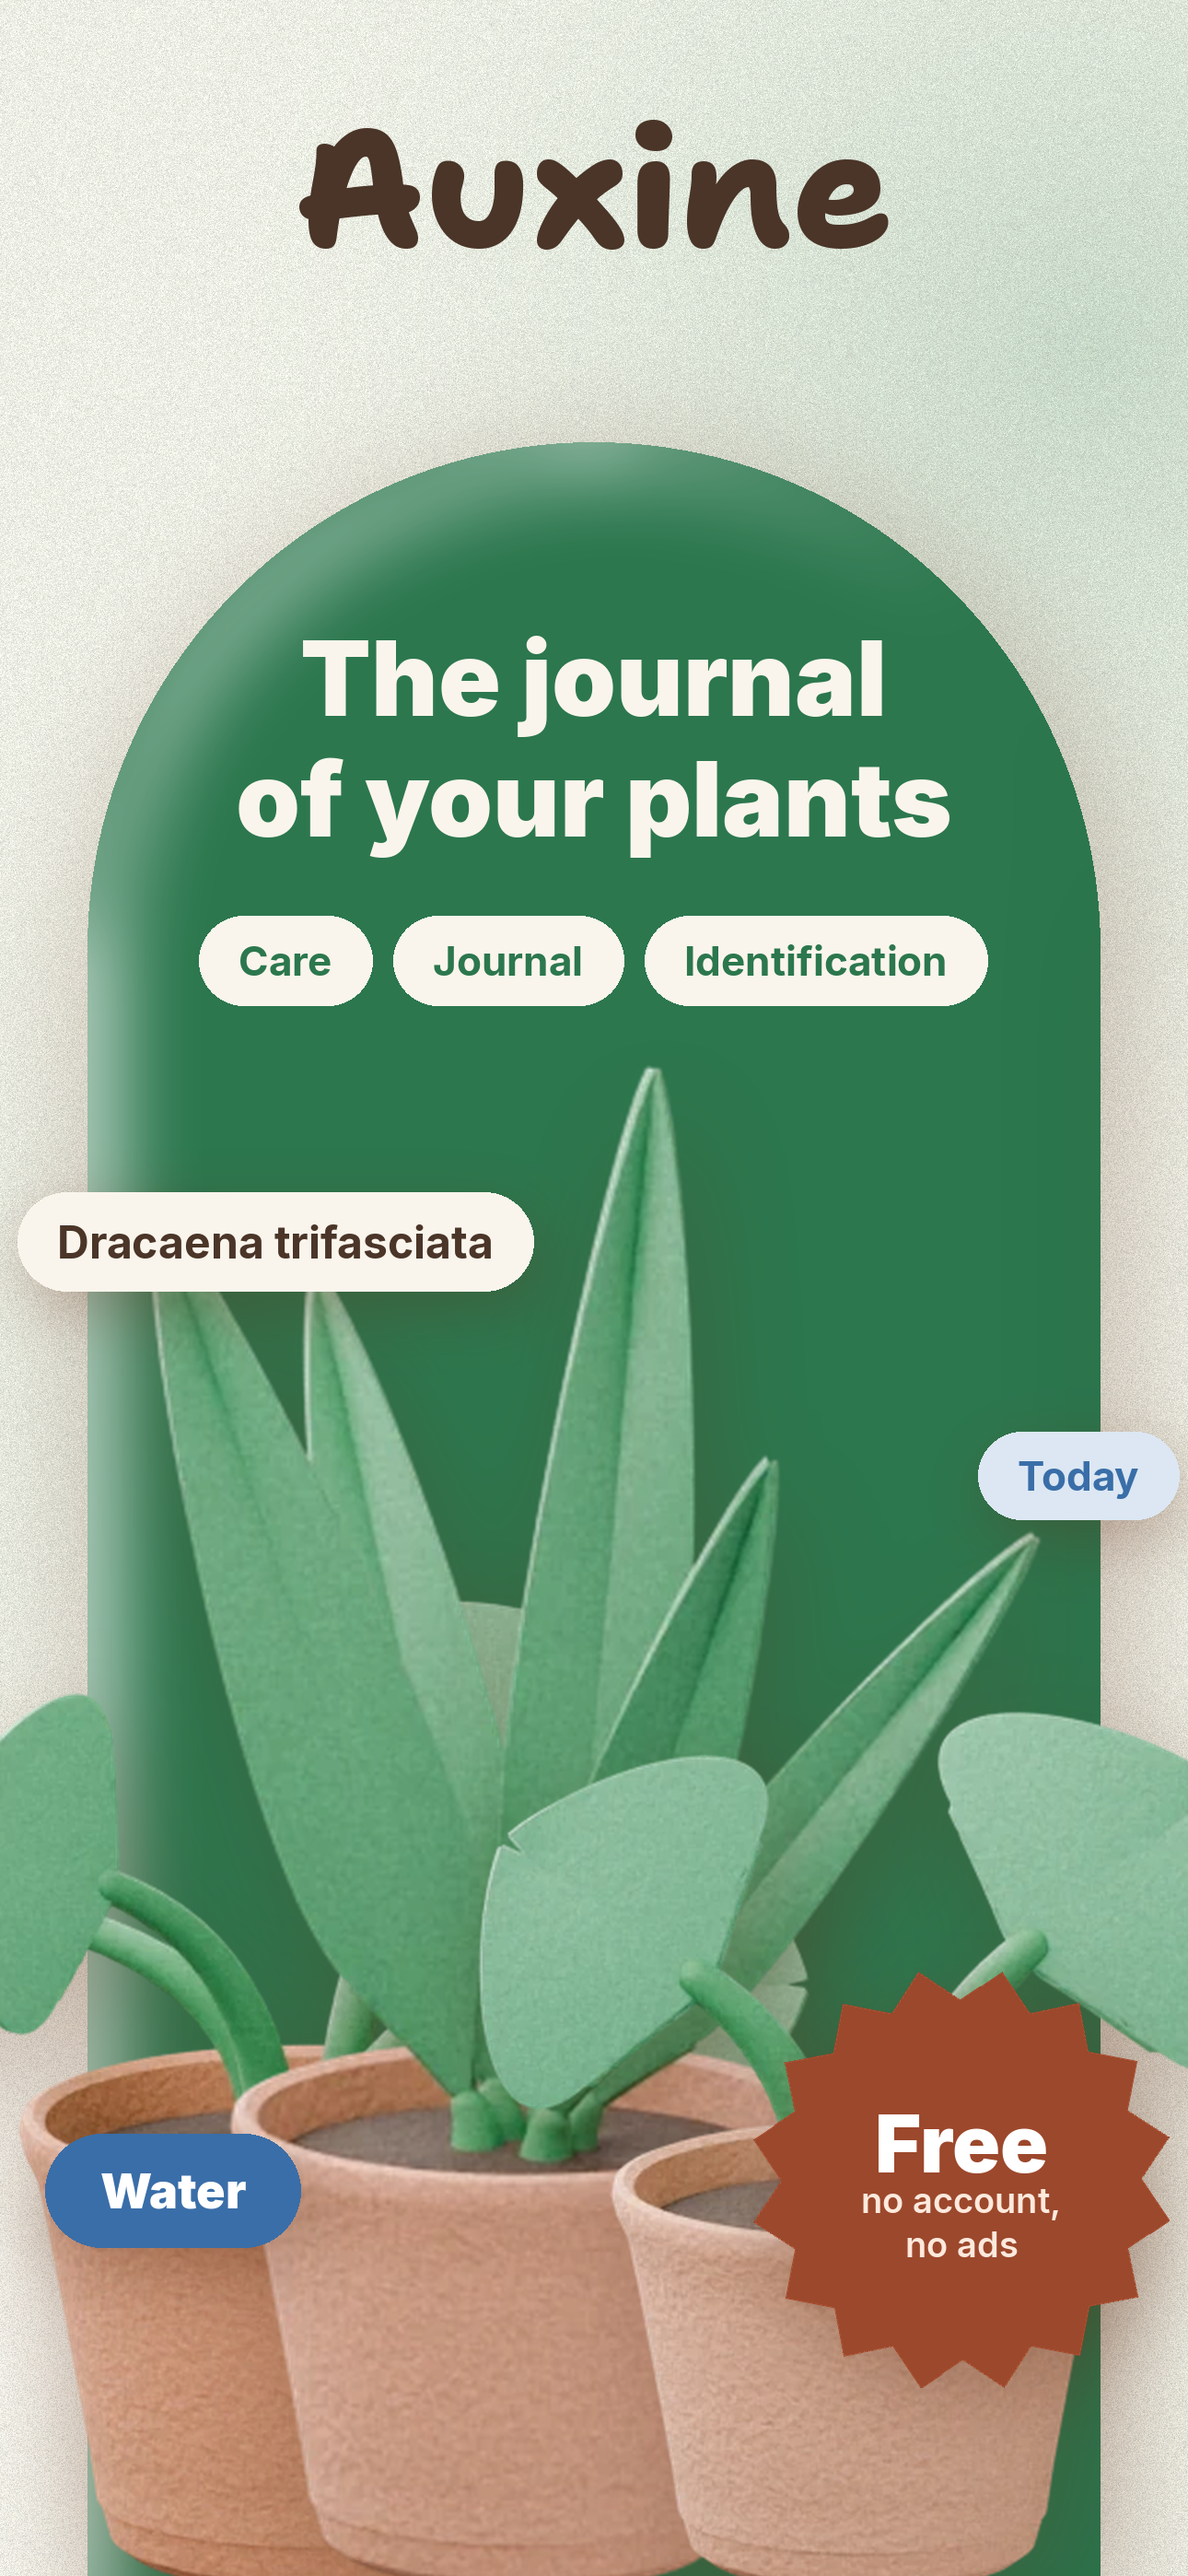
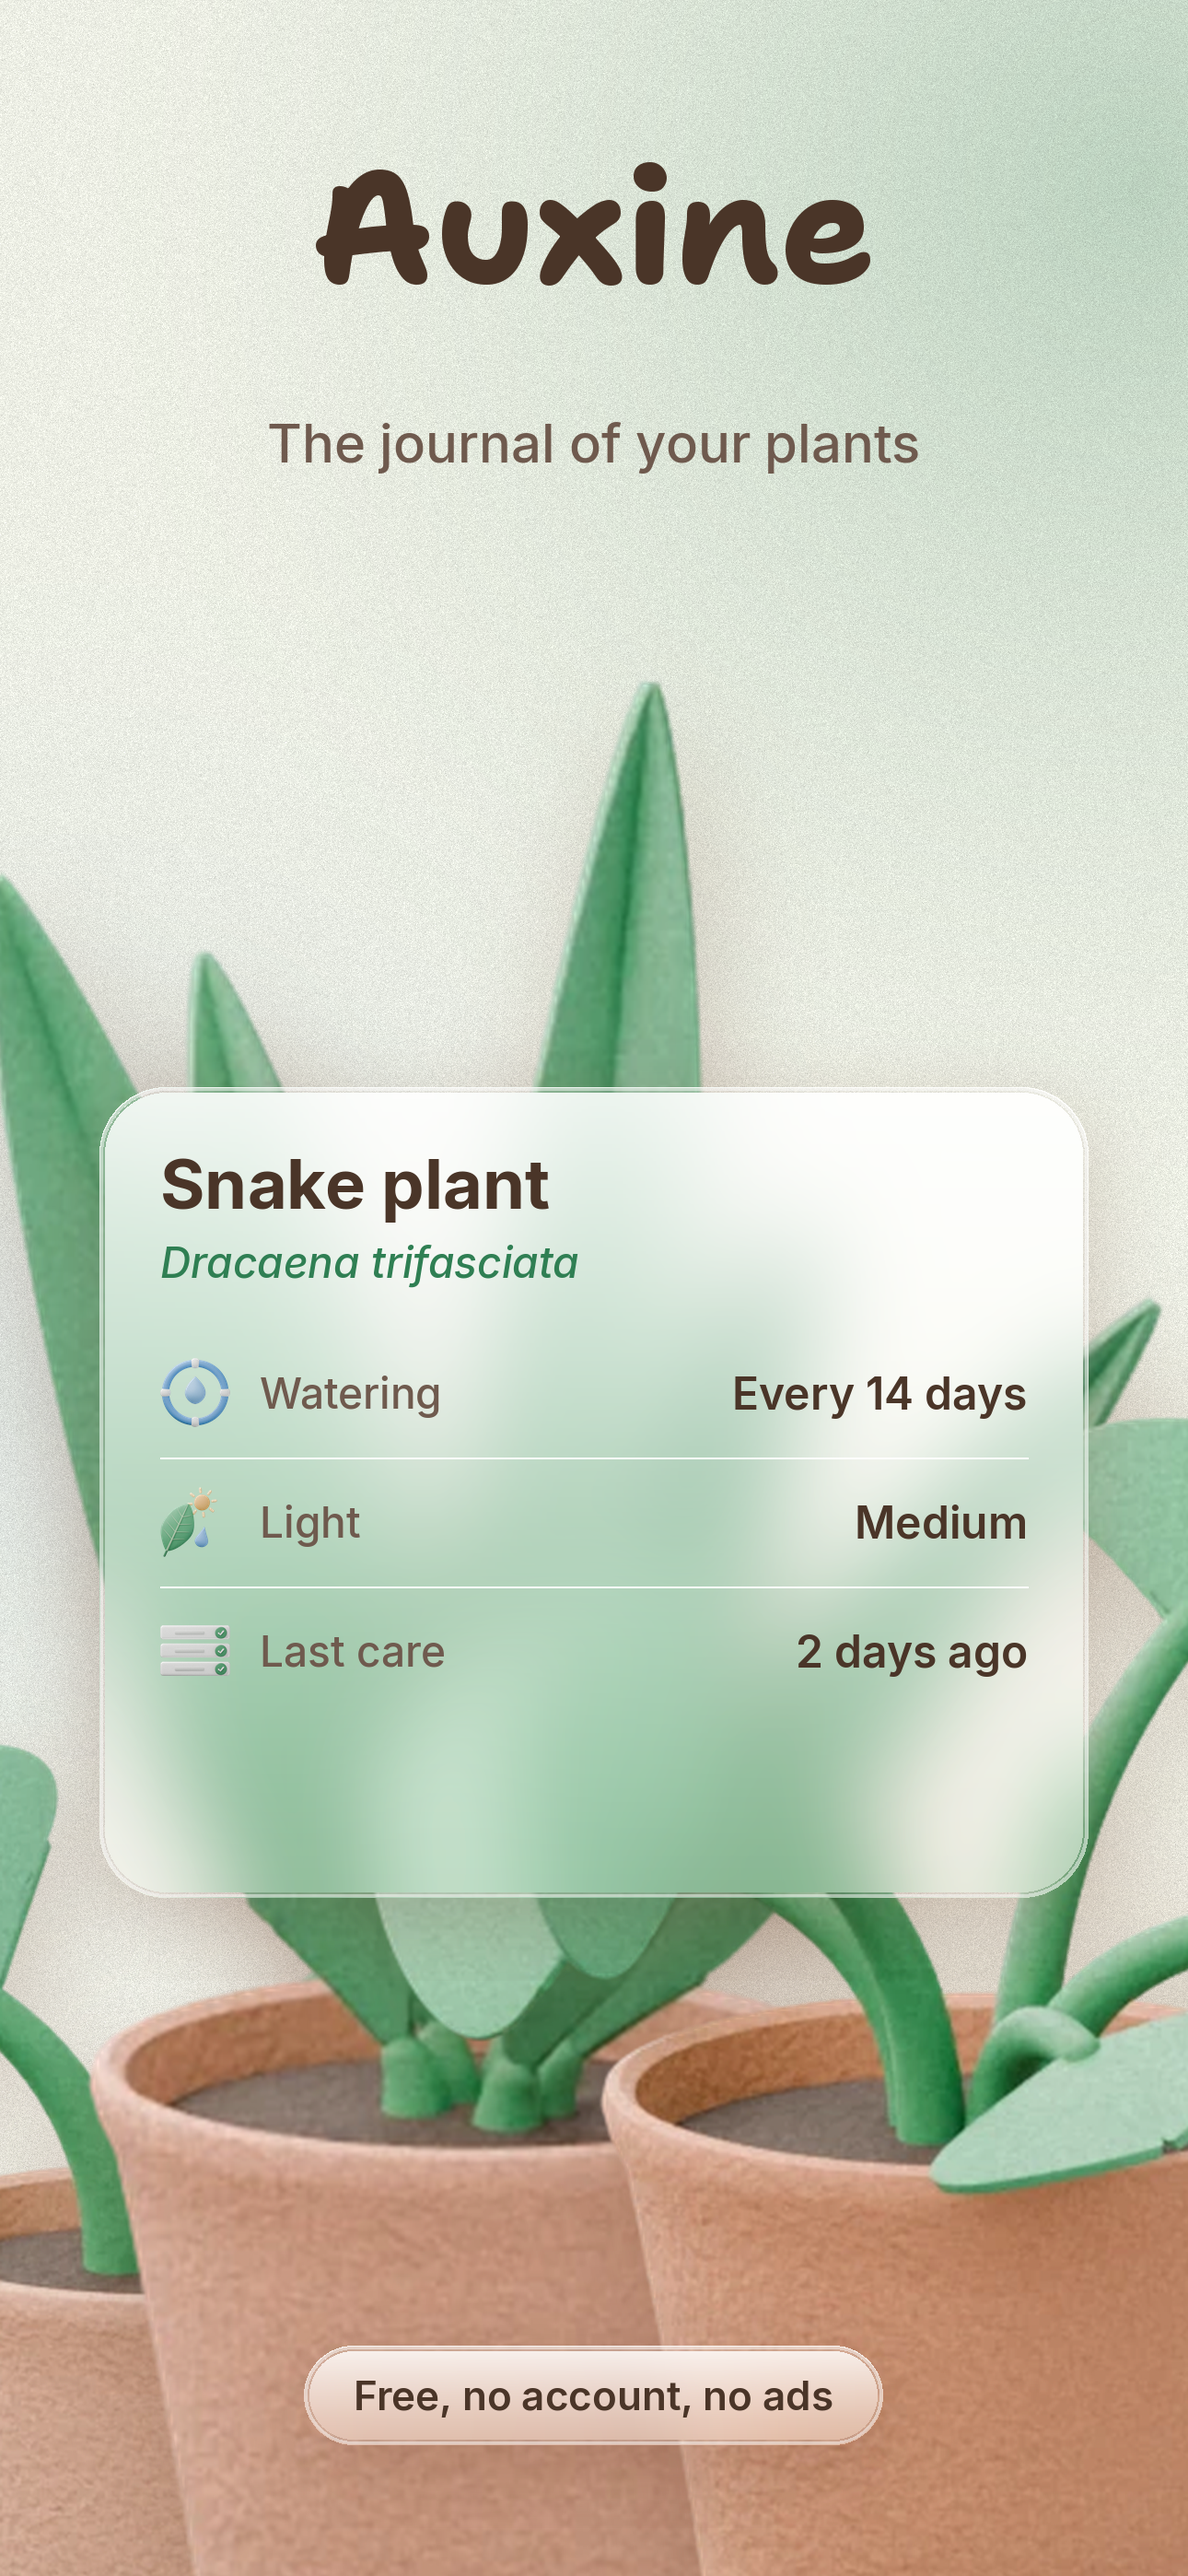
La fiche d'ouverture : de l'argile derrière du verre dépoli
L'aplat sauge n'avait aucune nuance : une couleur pleine, des pastilles
posées dessus, rien qui ne se passe entre les deux. Et l'autocollant en
étoile criait pour rien.

La fiche est maintenant un massif de plantes d'argile à grande échelle,
avec une plaque de verre dépoli posée dessus. Le verre reprend ce qu'il y
a dessous, le floute et l'éclaircit d'un souffle : ce sont les feuilles
qui passent au travers qui lui donnent sa couleur, et le liseré clair du
pourtour son épaisseur. Dessus, ce que l'app dit d'une plante, dans sa
typographie et ses mots.

Le reste est sobre : le nom tracé à la main, une ligne sous lui, et ce qui
est gratuit sur une petite plaque du même verre. `glass()` fait le verre,
`clay_shape()` l'argile ; l'étoile et le cadre photo n'ont plus d'emploi.

Claude-Session: https://claude.ai/code/session_01NWyBLWU43KdbaGJZsmnCAH

diff --git a/store/compose.py b/store/compose.py
@@ -16,12 +16,11 @@ entier, marqueur `.device` dans le dossier) ou, à défaut, du build web
 Usage : compose.py <dossier captures> <dossier sortie> [fr|en]
 """
 import csv
-import math
 import os
 import sys
 
 import numpy as np
-from PIL import Image, ImageDraw, ImageFilter, ImageFont
+from PIL import Image, ImageDraw, ImageEnhance, ImageFilter, ImageFont
 
 W, H = 1290, 2796
 HERE = os.path.dirname(os.path.abspath(__file__))
@@ -416,123 +415,144 @@ def ident_sheet(lang, width=1170):
 # un aplat sauge. Les concurrents du magasin font tous la même chose — un
 # aplat saturé, un titre énorme, une vraie photo, des pastilles d'interface
 # posées dessus. Ici les pastilles sont celles de l'app, à sa palette.
+# La fiche d'ouverture, sobre : le papier de l'app avec ses nuances, un
+# massif d'argile au fond, et une plaque de verre dépoli posée dessus qui
+# porte ce que l'app dit d'une plante. Rien d'autre.
 COVER = {
     'fr': {
-        'claim': 'Le carnet\nde vos plantes',
-        'chips': ['Soins', 'Journal', 'Identification'],
+        'claim': 'Le carnet de vos plantes',
+        'name': 'Langue de belle-mère',
         'species': 'Dracaena trifasciata',
-        'action': 'Arroser',
-        'due': 'Aujourd’hui',
-        'badge': ['Gratuite', 'sans compte,\nsans publicité'],
+        'rows': [
+            ('assets/onboarding/onboarding_3.png', 'Arrosage', 'Tous les 14 jours'),
+            ('assets/problems/clay_abiotique.webp', 'Lumière', 'Moyenne'),
+            ('assets/onboarding/onboarding_2.png', 'Dernier soin', 'Il y a 2 jours'),
+        ],
+        'footer': 'Gratuite, sans compte, sans publicité',
     },
     'en': {
-        'claim': 'The journal\nof your plants',
-        'chips': ['Care', 'Journal', 'Identification'],
+        'claim': 'The journal of your plants',
+        'name': 'Snake plant',
         'species': 'Dracaena trifasciata',
-        'action': 'Water',
-        'due': 'Today',
-        'badge': ['Free', 'no account,\nno ads'],
+        'rows': [
+            ('assets/onboarding/onboarding_3.png', 'Watering', 'Every 14 days'),
+            ('assets/problems/clay_abiotique.webp', 'Light', 'Medium'),
+            ('assets/onboarding/onboarding_2.png', 'Last care', '2 days ago'),
+        ],
+        'footer': 'Free, no account, no ads',
     },
 }
 
 SAGE_SOLID = (44, 119, 78)
 CREAM = (250, 245, 236)
 WATER = (58, 110, 168)
-TERRACOTTA = (156, 72, 44)
 
-
-def starburst(size, points, inner, color):
-    """Une pastille en étoile, comme les autocollants qu'on colle sur une
-    vitrine. Rien d'autre dans la série n'a cette forme : c'est ce qui la
-    fait remarquer."""
-    layer = Image.new('RGBA', (size, size), (0, 0, 0, 0))
-    cx = cy = size / 2
-    pts = []
-    for i in range(points * 2):
-        r = size / 2 if i % 2 == 0 else size / 2 * inner
-        a = math.pi * i / points - math.pi / 2
-        pts.append((cx + r * math.cos(a), cy + r * math.sin(a)))
-    ImageDraw.Draw(layer).polygon(pts, fill=color)
-    return layer
-
-
-def chip(text, fnt, fill, ink, height=98, pad=44, radius=None):
-    """Une pastille pleine : les boutons et les badges de l'app, en plus gros."""
-    d0 = ImageDraw.Draw(Image.new('RGB', (10, 10)))
-    w = int(d0.textlength(text, font=fnt)) + 2 * pad
-    layer = Image.new('RGBA', (w, height), (0, 0, 0, 0))
-    ImageDraw.Draw(layer).rounded_rectangle((0, 0, w - 1, height - 1), radius=radius or height // 2, fill=fill + (255,))
-    ImageDraw.Draw(layer).text((w // 2, height // 2), text, font=fnt, fill=ink, anchor='mm')
-    return layer
-
-
-# Le massif du bas de l'arche : l'asset, sa hauteur, l'abscisse de son pot.
-# Trois plantes de l'onboarding qui se chevauchent, comme un coin de pièce.
+# Le massif du fond : l'asset, sa hauteur, l'abscisse de son pot.
 COVER_PLANTS = [
-    ('collection_ronde.webp', 1080, 350),
-    ('collection_sansevieria.webp', 1660, 645),
-    ('collection_semis.webp', 960, 945),
+    ('collection_semis.webp', 1100, 190),
+    ('collection_sansevieria.webp', 2200, 620),
+    ('collection_ronde.webp', 1400, 1080),
 ]
 
 
+def rounded_mask(size, radius):
+    mask = Image.new('L', size, 0)
+    ImageDraw.Draw(mask).rounded_rectangle((0, 0, size[0] - 1, size[1] - 1), radius=radius, fill=255)
+    return mask
+
+
+def glass(img, box, radius=72, blur=52, alpha=0.26):
+    """Une plaque de verre dépoli posée sur la fiche.
+
+    Le verre n'a rien à montrer s'il n'y a rien dessous : on reprend ce que
+    la fiche porte déjà à cet endroit, on le floute, on l'éclaircit d'un
+    souffle, et on pose un voile blanc dessus. Un liseré clair sur le
+    pourtour et une lumière qui glisse du haut font le reste — c'est ce
+    liseré qui donne son épaisseur à la plaque."""
+    x, y, w, h = box
+    region = img.crop((x, y, x + w, y + h)).convert('RGB').filter(ImageFilter.GaussianBlur(blur))
+    region = ImageEnhance.Brightness(region).enhance(1.05)
+    pane = region.convert('RGBA')
+    pane.alpha_composite(Image.new('RGBA', (w, h), (255, 253, 250, int(255 * alpha))))
+    # La lumière du haut, qui s'éteint vers le bas.
+    grad = np.zeros((h, w, 4), dtype=np.uint8)
+    grad[..., :3] = 255
+    grad[..., 3] = np.clip(np.linspace(86, 0, h) ** 1.2, 0, 255).astype(np.uint8)[:, None]
+    pane.alpha_composite(Image.fromarray(grad))
+    d = ImageDraw.Draw(pane)
+    d.rounded_rectangle((1, 1, w - 2, h - 2), radius=radius, outline=(255, 255, 255, 150), width=3)
+    d.rounded_rectangle((4, 4, w - 5, h - 5), radius=radius - 3, outline=(255, 255, 255, 60), width=2)
+    pane.putalpha(Image.fromarray(np.minimum(np.asarray(pane.split()[-1]), np.asarray(rounded_mask((w, h), radius)))))
+    # L'ombre portée, brune et très douce : la plaque flotte, elle ne colle pas.
+    pad = 90
+    sh = Image.new('L', (w + 2 * pad, h + 2 * pad), 0)
+    sh.paste(rounded_mask((w, h), radius).point(lambda v: int(v * 0.22)), (pad, pad + 26))
+    shadow = Image.new('RGBA', sh.size, SHADOW + (0,))
+    shadow.putalpha(sh.filter(ImageFilter.GaussianBlur(46)))
+    img.alpha_composite(shadow, (x - pad, y - pad))
+    img.alpha_composite(pane, (x, y))
+
+
 def cover(lang):
-    """La fiche d'ouverture : le nom tracé sur le papier de l'app, puis une
-    arche d'argile sauge qui sort du cadre. Dedans, la revendication en gras,
-    les mots de la fiche, un massif de plantes d'argile, et les pastilles de
-    l'app posées à cheval sur le bord."""
+    """La fiche d'ouverture : le papier de l'app, un massif d'argile au fond,
+    et une plaque de verre dépoli qui porte ce que l'app dit d'une plante.
+    Sobre : pas de pastille criarde, pas d'autocollant — la matière parle."""
     t = COVER[lang]
-    img = background('sage')
+
+    # Le fond : le papier de l'app, avec des nappes de couleur plus larges
+    # que sur les autres fiches. C'est ce qui donne au verre de quoi jouer.
+    base = tuple(int(a * 0.5 + b * 0.5) for a, b in zip(TINTS['sage'][1], CANVAS))
+    img = Image.new('RGBA', (W, H), base + (255,))
+    img.alpha_composite(radial((W, H), (1240, 200), 1200, TINTS['sage'][0], 0.26))
+    img.alpha_composite(radial((W, H), (80, 1500), 1000, TINTS['water'][0], 0.10))
+    img.alpha_composite(radial((W, H), (1100, 2700), 1100, TINTS['terracotta'][0], 0.12))
+    img.alpha_composite(radial((W, H), (300, 2500), 900, (255, 253, 248), 0.55))
+    img = grain(img, strength=0.035)
+
     d = ImageDraw.Draw(img)
+    d.text((W // 2, 176), 'Auxine', font=hand(172, 750), fill=INK, anchor='mt')
+    d.text((W // 2, 458), t['claim'], font=font('Medium', 58), fill=INK2, anchor='mt')
 
-    d.text((W // 2, 130), 'Auxine', font=hand(180, 800), fill=INK, anchor='mt')
-
-    # L'arche, qui descend hors du cadre.
-    arch_w, arch_top = 1100, 480
-    arch = clay_arch(arch_w, H - arch_top + 40, color=SAGE_SOLID)
-    ax = (W - arch_w) // 2
-    paste_with_shadow(img, arch, (ax, arch_top), blur=80, offset=(18, 40), alpha=0.30)
-    d = ImageDraw.Draw(img)
-
-    y = arch_top + 210
-    f = font('Black', 112)
-    for line in t['claim'].split('\n'):
-        d.text((W // 2, y), line, font=f, fill=CREAM, anchor='mt')
-        y += 132
-
-    y += 40
-    chips = [chip(c, font('Bold', 44), CREAM, SAGE_SOLID) for c in t['chips']]
-    total = sum(c.width for c in chips) + 22 * (len(chips) - 1)
-    x = (W - total) // 2
-    for c in chips:
-        img.alpha_composite(c, (x, y))
-        x += c.width + 22
-
-    # Le massif, posé au bas de l'arche et coupé par le cadre.
-    base = H + 20
+    # Le massif, au fond, coupé par le bas du cadre.
+    ground = H + 140
     for name, height, cx in COVER_PLANTS:
         src = Image.open(os.path.join(CLAY, name)).convert('RGBA')
         src = src.crop(src.getbbox())
         w = int(src.width * height / src.height)
-        paste_with_shadow(img, src.resize((w, height), Image.LANCZOS), (cx - w // 2, base - height), blur=56, offset=(14, 40), alpha=0.26)
+        paste_with_shadow(img, src.resize((w, height), Image.LANCZOS), (cx - w // 2, ground - height), blur=60, offset=(14, 44), alpha=0.22)
 
-    # Les pastilles de l'app, à cheval sur le bord de l'arche.
-    sp = chip(t['species'], font('Bold', 48), CREAM, INK, height=108)
-    paste_with_shadow(img, sp, (ax - 76, y + 300), blur=34, offset=(8, 22), alpha=0.30)
-    due = chip(t['due'], font('Bold', 44), TINTS['water'][1], WATER, height=96)
-    paste_with_shadow(img, due, (ax + arch_w - due.width + 86, y + 560), blur=34, offset=(8, 22), alpha=0.30)
-    act = chip(t['action'], font('Black', 52), WATER, (255, 255, 255), height=124, pad=60)
-    paste_with_shadow(img, act, (ax - 46, H - 480), blur=40, offset=(10, 26), alpha=0.34)
+    # La plaque de verre, posée au milieu du massif.
+    gx, gy, gw, gh = 108, 1180, W - 216, 880
+    glass(img, (gx, gy, gw, gh))
+    d = ImageDraw.Draw(img)
 
-    # L'autocollant, collé de travers sur le bord droit de l'arche.
-    size = 460
-    star = starburst(size, 16, 0.85, TERRACOTTA + (255,)).rotate(-11, resample=Image.BICUBIC)
-    ds = ImageDraw.Draw(star)
-    ds.text((size // 2, size // 2 - 40), t['badge'][0], font=font('Black', 86), fill=(255, 255, 255), anchor='mm')
-    ty = size // 2 + 10
-    for line in t['badge'][1].split('\n'):
-        ds.text((size // 2, ty), line, font=font('SemiBold', 38), fill=(255, 233, 221), anchor='mt')
-        ty += 46
-    paste_with_shadow(img, star, (W - size - 16, H - 660), blur=42, offset=(10, 26), alpha=0.32)
+    pad = 66
+    d.text((gx + pad, gy + pad - 6), t['name'], font=font('Bold', 74), fill=INK)
+    d.text((gx + pad, gy + pad + 96), t['species'], font=font('MediumItalic', 46), fill=SAGE)
+
+    y = gy + pad + 196
+    for i, (icon, label, value) in enumerate(t['rows']):
+        if i:
+            d.line((gx + pad, y, gx + gw - pad, y), fill=(255, 255, 255, 120), width=2)
+        y += 26
+        obj = Image.open(os.path.join(ROOT, icon)).convert('RGBA')
+        obj = obj.crop(obj.getbbox())
+        side = 76
+        obj = obj.resize((int(obj.width * side / max(obj.width, obj.height)), int(obj.height * side / max(obj.width, obj.height))), Image.LANCZOS)
+        img.alpha_composite(obj, (gx + pad, y + (88 - obj.height) // 2))
+        d = ImageDraw.Draw(img)
+        d.text((gx + pad + 108, y + 44), label, font=font('Medium', 46), fill=INK2, anchor='lm')
+        d.text((gx + gw - pad, y + 44), value, font=font('SemiBold', 48), fill=INK, anchor='rm')
+        y += 114
+
+    # Ce qui est gratuit, sur une plaque de verre à sa taille : le fond est
+    # chargé à cet endroit, et le texte nu s'y perdait.
+    f_foot = font('SemiBold', 44)
+    fw = int(d.textlength(t['footer'], font=f_foot)) + 108
+    fh = 108
+    fx, fy = (W - fw) // 2, H - 250
+    glass(img, (fx, fy, fw, fh), radius=fh // 2, blur=36, alpha=0.34)
+    ImageDraw.Draw(img).text((W // 2, fy + fh // 2), t['footer'], font=f_foot, fill=INK, anchor='mm')
     return img
 
 

diff --git a/store/README.md b/store/README.md
@@ -1,15 +1,14 @@
 # Visuels du magasin
 
 Huit visuels par langue, au format iPhone 6,7 pouces (1290 × 2796). Le
-premier ne montre pas un écran : il hausse le ton, comme le font les
-fiches des concurrents du magasin — un aplat saturé, un titre énorme, des
-pastilles d'interface posées dessus. Ici l'aplat est une arche d'argile
-sauge qui sort du cadre par le bas, posée sur le papier de l'app ; dedans,
-un massif de trois plantes de l'onboarding à grande échelle, et les
-pastilles de l'app à sa palette — l'espèce, l'échéance, le bouton
-d'arrosage. Ce qui est gratuit tient sur un autocollant en étoile, terre
-cuite. Le nom est tracé à la main sur le papier, au-dessus de l'arche.
-Les sept autres montrent une capture réelle de l'app dans un
+premier ne montre pas un écran : un massif de plantes d'argile occupe la
+fiche, et une plaque de verre dépoli posée dessus porte ce que l'app dit
+d'une plante — son nom, son espèce, son arrosage, sa lumière, son dernier
+soin. Le verre reprend ce qu'il y a dessous, le floute et l'éclaircit d'un
+souffle ; ce sont les feuilles qui passent au travers qui lui donnent sa
+couleur, et le liseré clair du pourtour son épaisseur. Le nom est tracé à
+la main sur le papier de l'app, et ce qui est gratuit tient sur une petite
+plaque du même verre. Les sept autres montrent une capture réelle de l'app dans un
 iPhone dessiné, entier et droit, l'écran complet : c'est l'écran qu'on vend,
 rien ne le recouvre. Au-dessus, un titre tracé en Shantell Sans (la police
 « main » de l'app) ; entre le titre et le téléphone, un objet 3D de la série
@@ -18,7 +17,7 @@ crème de l'app, avec son grain ; les ombres sont brunes, jamais noires.
 
 | # | Écran | Objet | Teinte |
 |---|---|---|---|
-| 1 | Fiche d'ouverture : arche d'argile, massif de plantes, autocollant | trois plantes de l'onboarding | sauge |
+| 1 | Fiche d'ouverture : massif d'argile derrière une plaque de verre | trois plantes de l'onboarding | sauge |
 | 2 | Aujourd'hui, rien à faire, « À venir » en grille | trois rangées cochées | eau |
 | 3 | Plantes (la collection) | monstera en pot | sauge |
 | 4 | Fiche d'une plante (Basilic), photo en tête | plante ronde en pot | terre cuite |
@@ -145,4 +144,4 @@ Les textes des visuels sont dans `compose.py` (`COPY`), coupés à la main pour
 que chaque titre tienne sur deux lignes ; la taille est commune aux sept
 captures. L'ordre des écrans, les teintes et les objets sont dans `SCENES` ;
 les textes de la fiche d'ouverture dans `COVER`, son massif dans
-`COVER_PLANTS`.
+`COVER_PLANTS` ; le verre dépoli est `glass()`, l'argile `clay_shape()`.
